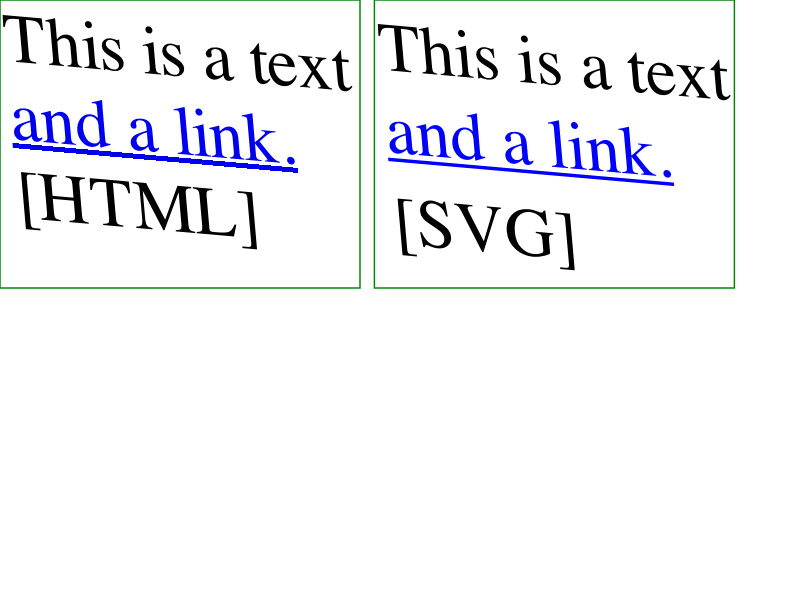
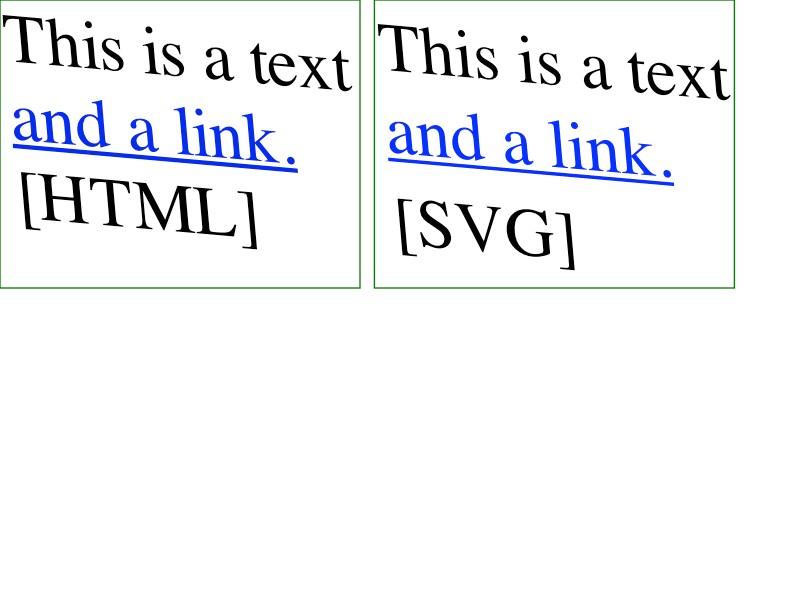
Antialias underlines if they're not axis-aligned https://bugs.webkit.org/show_bug.cgi?id=123004
Patch by Myles C. Maxfield <mmaxfield@apple.com> on 2013-10-23
Reviewed by Simon Fraser.

Source/WebCore:

In order to make underlines crisp, GraphicsContext:drawLineForText
modifies the bounds of the underline rect in order to make the rect
device-pixel-aligned, and then turns off antialiasing when drawing
the line. This makes sense when the underline is axis-aligned, but
doesn't when the rect is rotated or skewed. Therefore, we should
only opt-in to this behavior if the underline we're about to draw
is axis-aligned. This requires figuring out whether or not the
current transformation is axis-aligned every time
GraphicsContext::drawLineForText is called, which will incur a small
performance hit. However, this is justified by underlines looking
much better (antialiased) when the context is rotated or skewed.

Tests: svg/custom/foreign-object-skew.html
       svg/zoom/page/zoom-foreignObject.html
       svg/zoom/text/zoom-foreignObject.html:

* platform/graphics/cg/GraphicsContextCG.cpp:
(WebCore::GraphicsContext::drawLineForText):

LayoutTests:

Updating tests that draw underlines in a non-axis-aligned
GraphicsContext. The expected .png's should show an antialiased
underline. However, underlines which are axis-aligned should still
be unchanged.

* platform/mac/svg/custom/foreign-object-skew-expected.png:
* platform/mac/svg/zoom/page/zoom-foreignObject-expected.png:
* platform/mac/svg/zoom/text/zoom-foreignObject-expected.png:
[…]

Changed region(s): [[0.4688, 0.18, 0.8438, 0.33], [0.0, 0.18, 0.375, 0.3]]

diff --git a/Source/WebCore/platform/graphics/cg/GraphicsContextCG.cpp b/Source/WebCore/platform/graphics/cg/GraphicsContextCG.cpp
@@ -1253,7 +1253,7 @@ void GraphicsContext::drawLineForText(const FloatPoint& point, float width, bool
 
     bool restoreAntialiasMode = false;
 
-    if (!printing) {
+    if (!printing && getCTM(GraphicsContext::DefinitelyIncludeDeviceScale).preservesAxisAlignment()) {
         // On screen, use a minimum thickness of 1.0 in user space (later rounded to an integral number in device space).
         float adjustedThickness = max(thickness, 1.0f);
 
